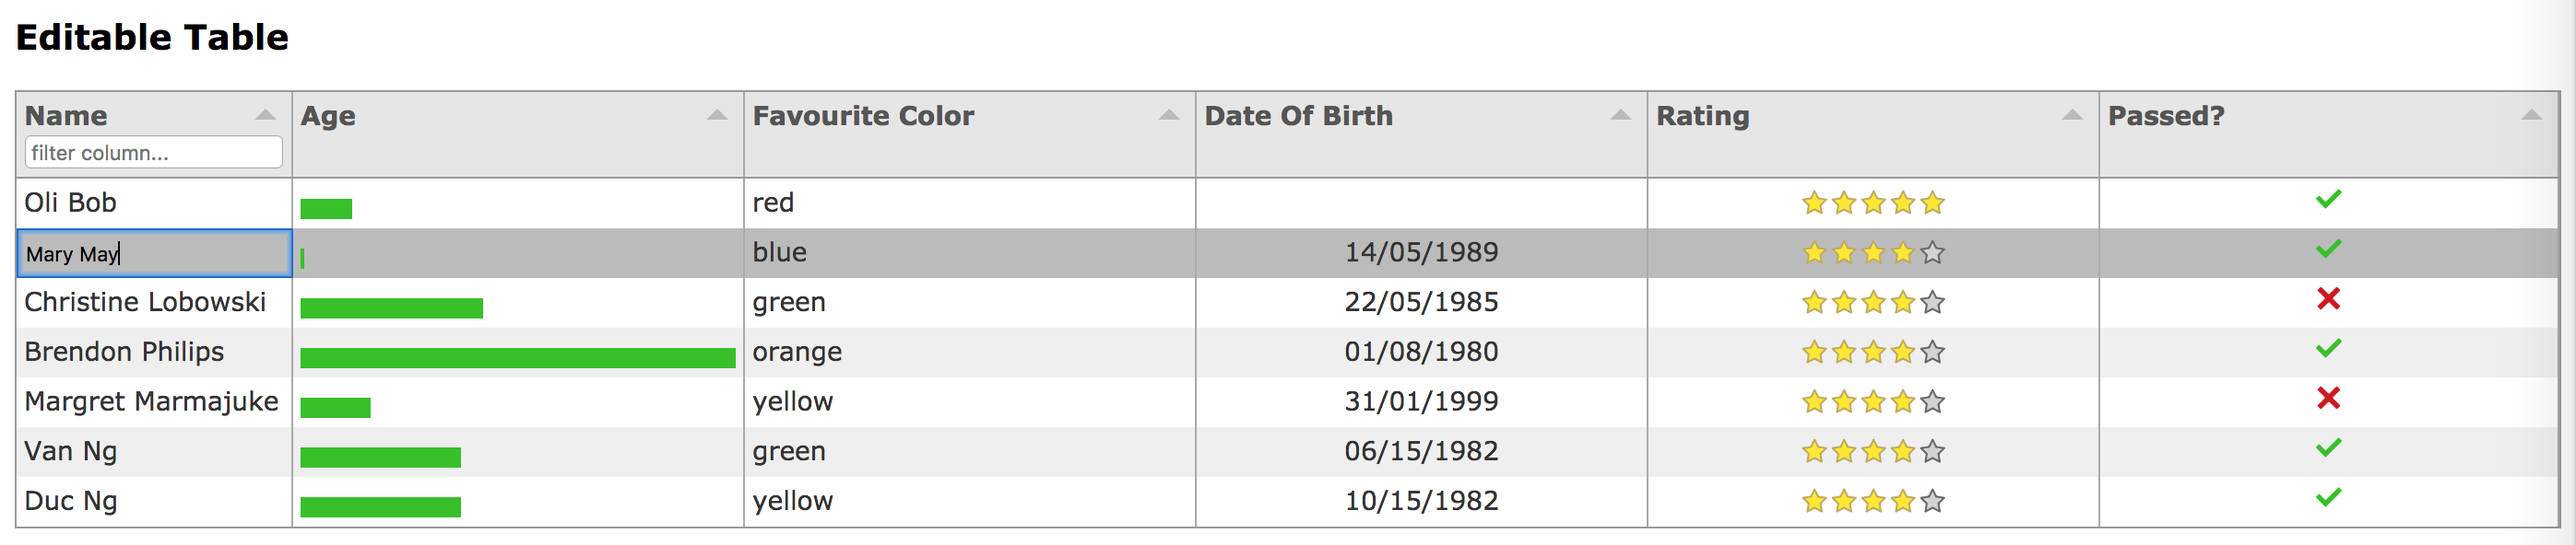
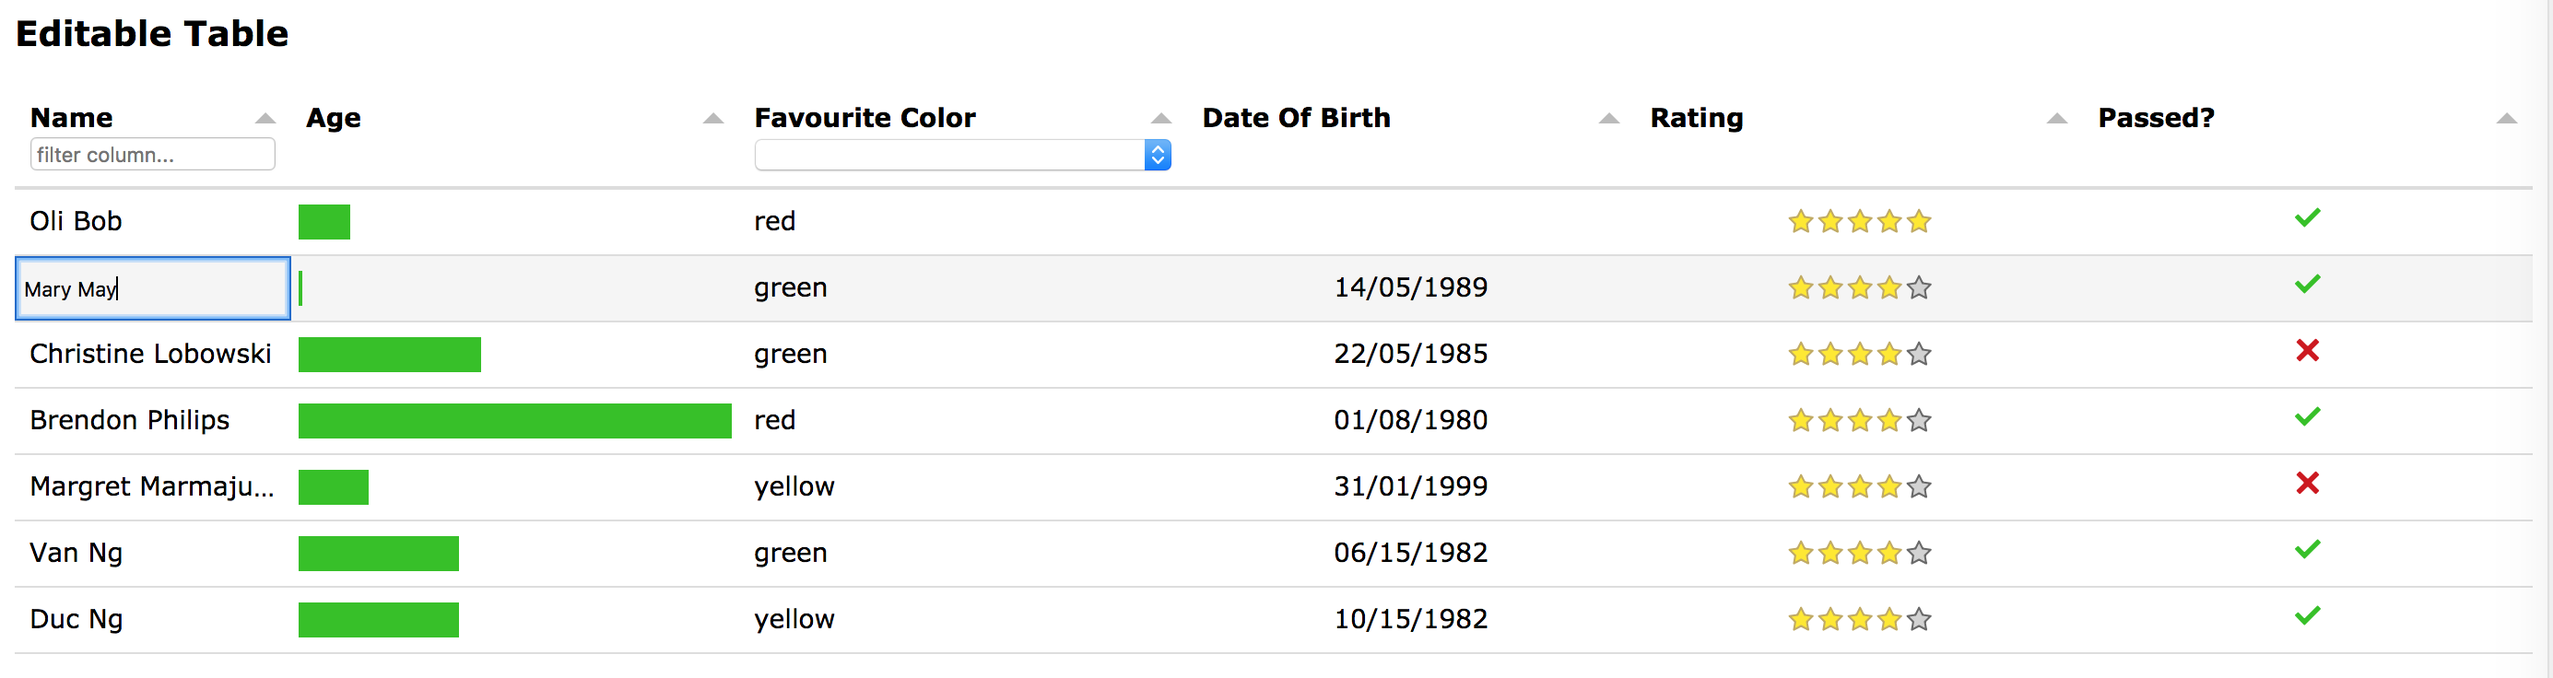
chore: update screenshot.png

diff --git a/demo/src/index.js b/demo/src/index.js
@@ -2,10 +2,10 @@ import React, { Component } from 'react';
 import { render } from 'react-dom';
 import './styles.css';
 
-import '../../lib/styles.css';
+// import '../../lib/styles.css'; // default Theme
 import { ReactTabulatorExample } from '../../lib';
 
-// import '../../lib/css/bootstrap/tabulator_bootstrap4.min.css';   // use Theme(s)
+import '../../lib/css/bootstrap/tabulator_bootstrap.min.css'; // use Theme(s)
 // import { ReactTabulator, ReactTabulatorExample } from '../../lib';
 
 class Demo extends Component {
